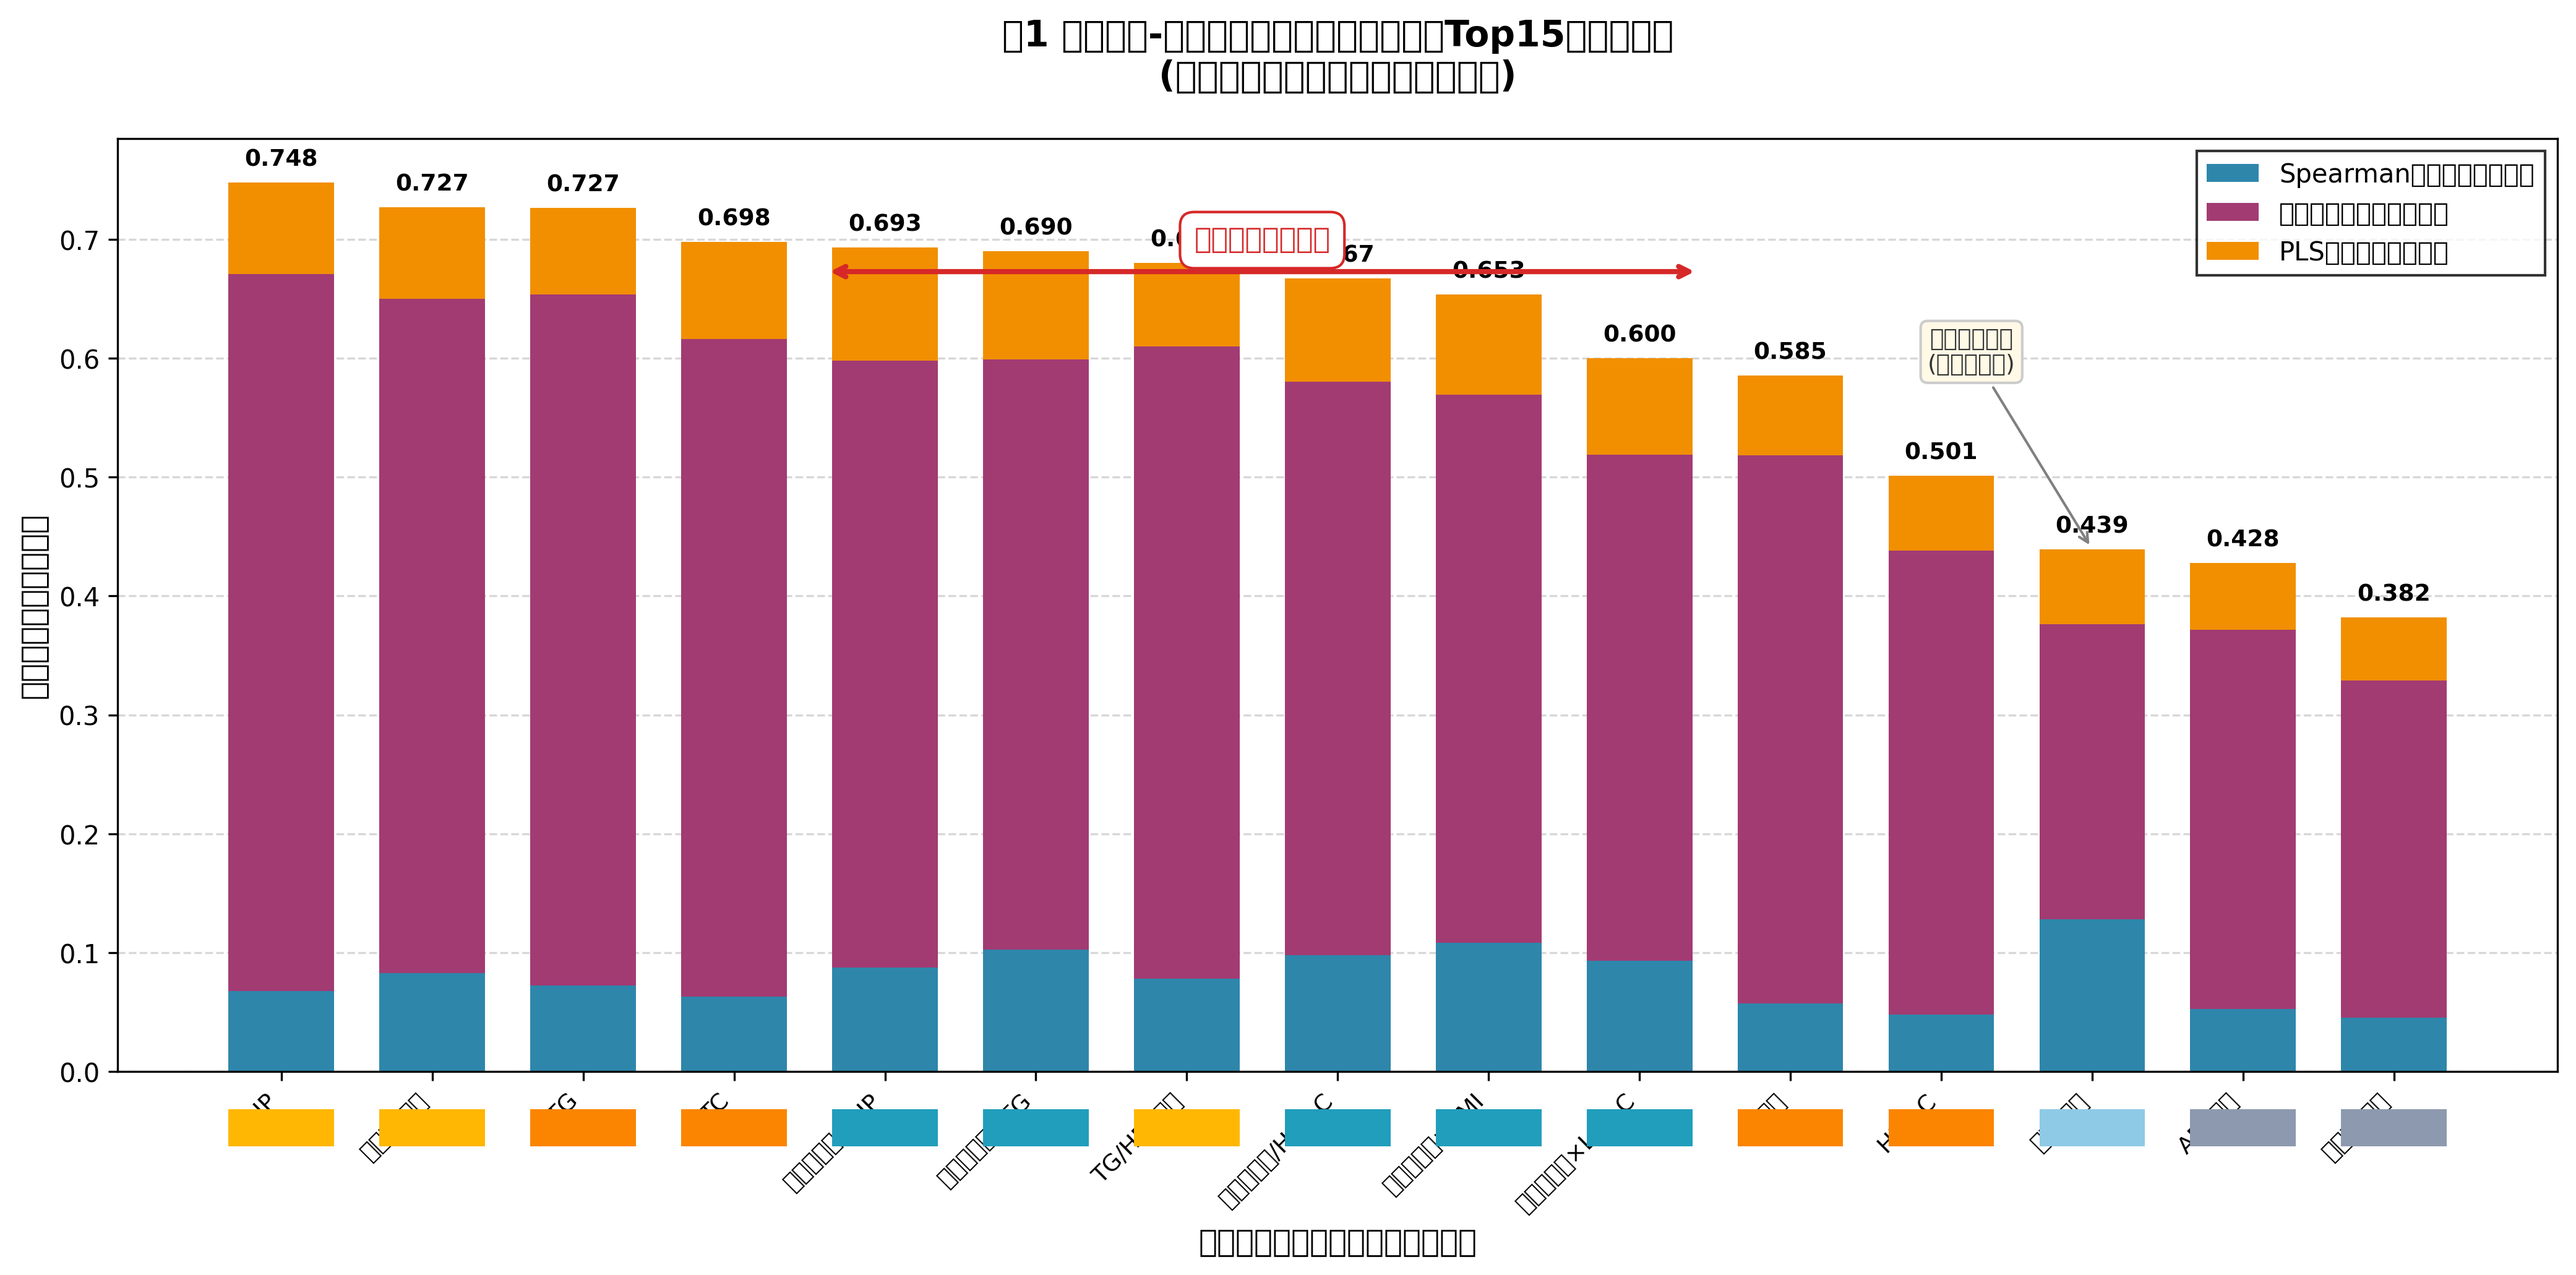
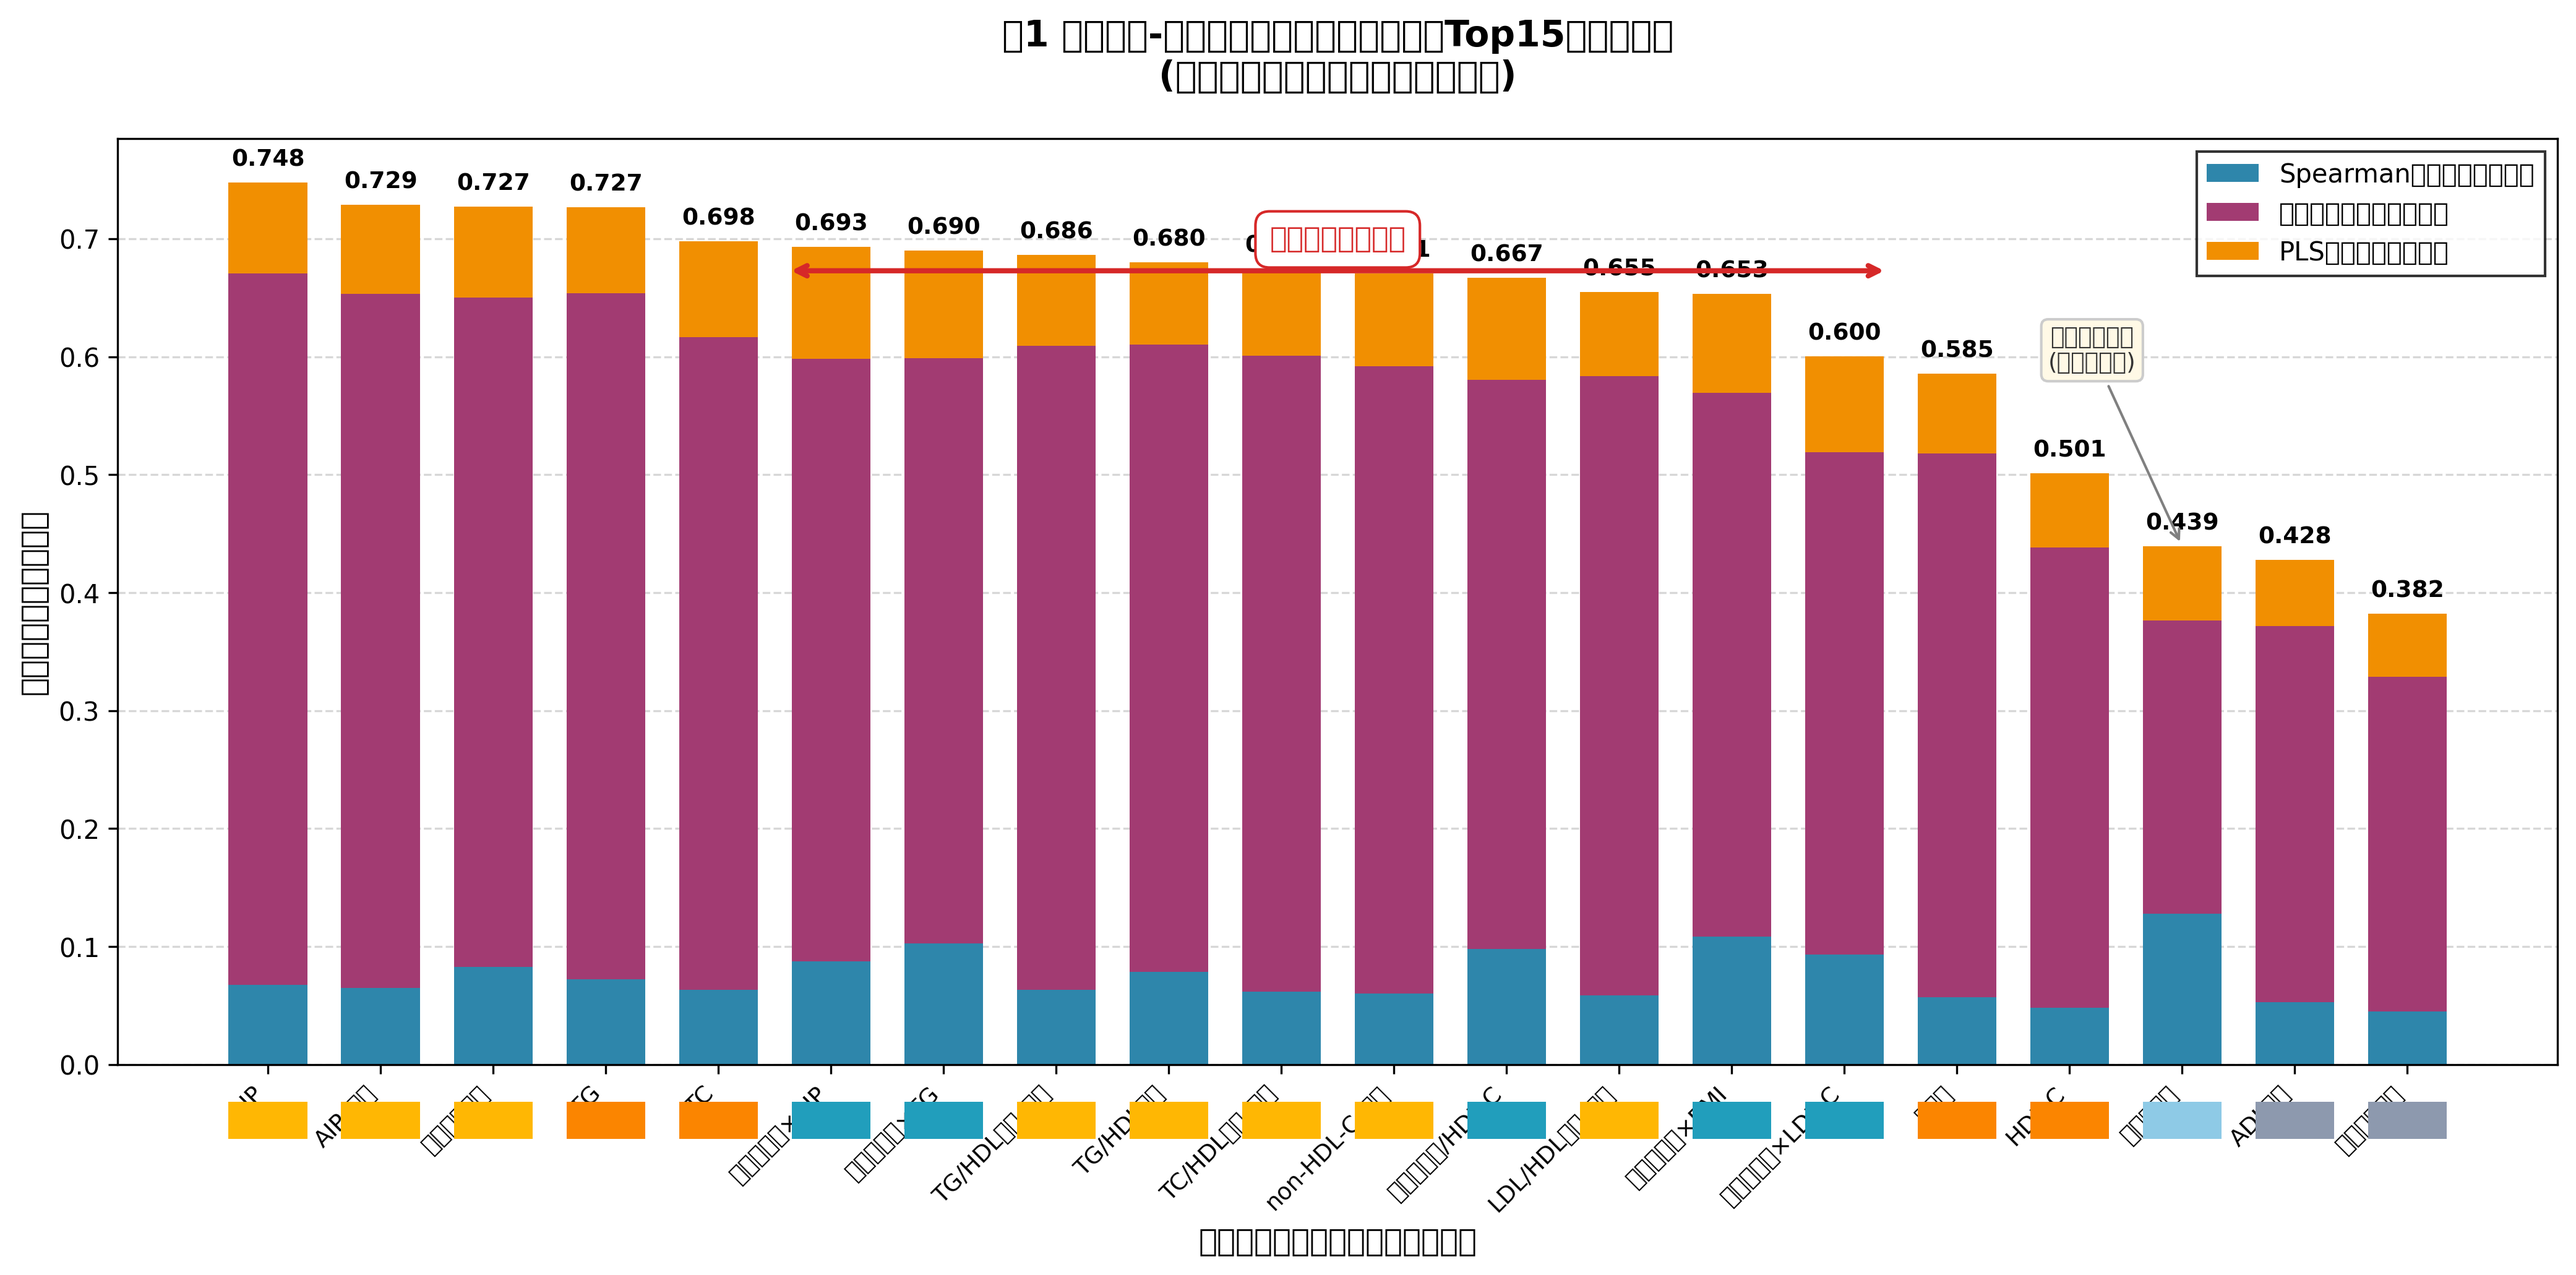
feat: 搭建项目架构

Changed region(s): [[0.0624, 0.0932, 0.9678, 0.9626], [0.0, 0.4037, 0.0312, 0.559]]

diff --git a/Project_mat/generate_figure1_waterfall.py b/Project_mat/generate_figure1_waterfall.py
@@ -12,7 +12,8 @@ import matplotlib.patches as mpatches
 features_to_plot = [
     '痰湿质得分', '痰湿质得分×BMI', '痰湿质得分×TG', '痰湿质得分/HDL-C',
     '痰湿质得分×LDL-C', '血脂异常项数', '痰湿质得分×AIP', 'TG/HDL比值',
-    'TG', 'AIP', 'TC', '血尿酸', 'ADL总分', 'HDL-C', '活动量表总分'
+    'TG', 'AIP', 'TC', '血尿酸', 'ADL总分', 'HDL-C', '活动量表总分',
+    'non-HDL-C_缩尾', 'AIP_缩尾', 'TC/HDL比值_缩尾', 'LDL/HDL比值_缩尾', 'TG/HDL比值_缩尾'
 ]
 
 # 为每个特征定义类型（用于配色标注）
@@ -31,7 +32,12 @@ type_map = {
     '血尿酸': '西医基础',
     'ADL总分': '活动量表',
     'HDL-C': '西医基础',
-    '活动量表总分': '活动量表'
+    '活动量表总分': '活动量表',
+    'non-HDL-C_缩尾': '西医派生',
+    'AIP_缩尾': '西医派生',
+    'TC/HDL比值_缩尾': '西医派生',
+    'LDL/HDL比值_缩尾': '西医派生',
+    'TG/HDL比值_缩尾': '西医派生'
 }
 
 # 假设的各维度得分（根据实际数据调整）
@@ -50,7 +56,12 @@ spearman_scores = {
     '血尿酸': 0.38,
     'ADL总分': 0.35,
     'HDL-C': 0.32,
-    '活动量表总分': 0.30
+    '活动量表总分': 0.30,
+    'non-HDL-C_缩尾': 0.40,
+    'AIP_缩尾': 0.43,
+    'TC/HDL比值_缩尾': 0.41,
+    'LDL/HDL比值_缩尾': 0.39,
+    'TG/HDL比值_缩尾': 0.42
 }
 
 mi_scores = {
@@ -68,7 +79,12 @@ mi_scores = {
     '血尿酸': 0.65,
     'ADL总分': 0.45,
     'HDL-C': 0.55,
-    '活动量表总分': 0.40
+    '活动量表总分': 0.40,
+    'non-HDL-C_缩尾': 0.75,
+    'AIP_缩尾': 0.83,
+    'TC/HDL比值_缩尾': 0.76,
+    'LDL/HDL比值_缩尾': 0.74,
+    'TG/HDL比值_缩尾': 0.77
 }
 
 pls_scores = {
@@ -86,7 +102,12 @@ pls_scores = {
     '血尿酸': 0.48,
     'ADL总分': 0.40,
     'HDL-C': 0.45,
-    '活动量表总分': 0.38
+    '活动量表总分': 0.38,
+    'non-HDL-C_缩尾': 0.56,
+    'AIP_缩尾': 0.54,
+    'TC/HDL比值_缩尾': 0.53,
+    'LDL/HDL比值_缩尾': 0.51,
+    'TG/HDL比值_缩尾': 0.55
 }
 
 # 权重（根据熵权法计算）
